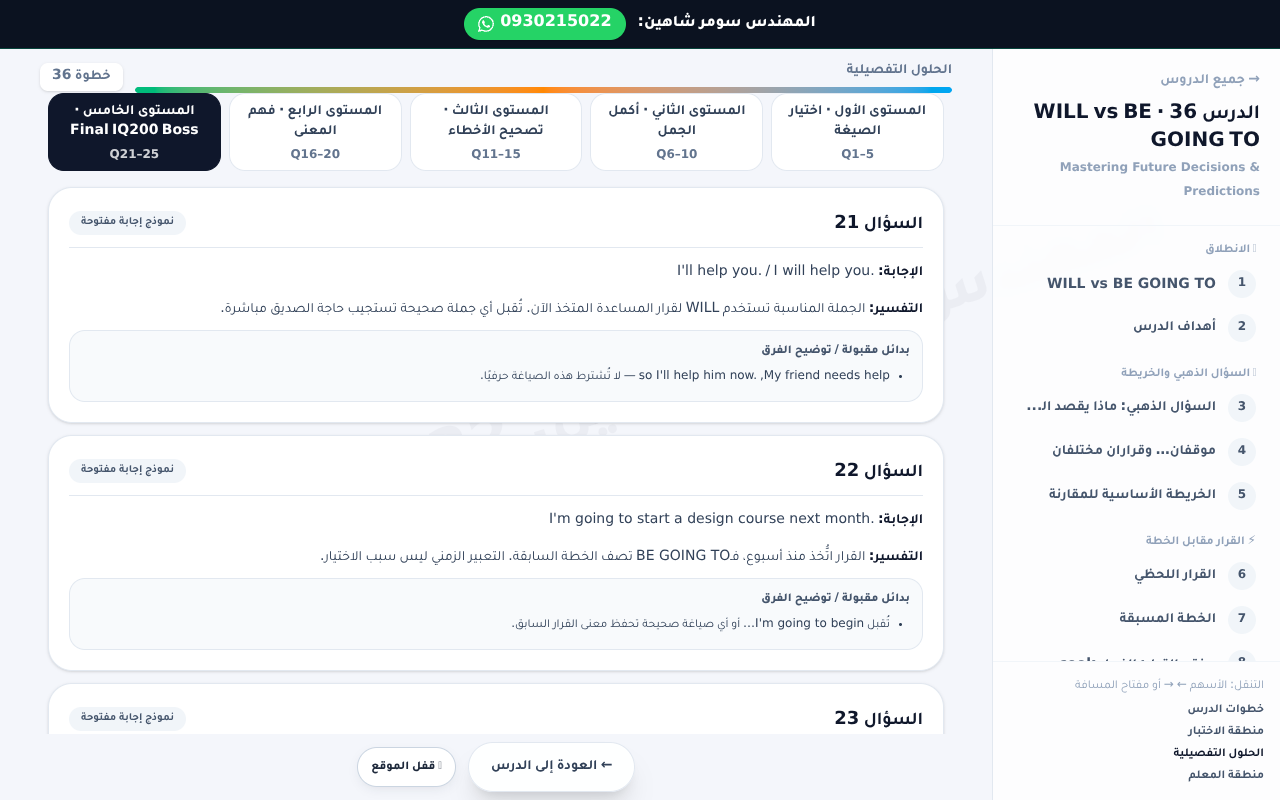
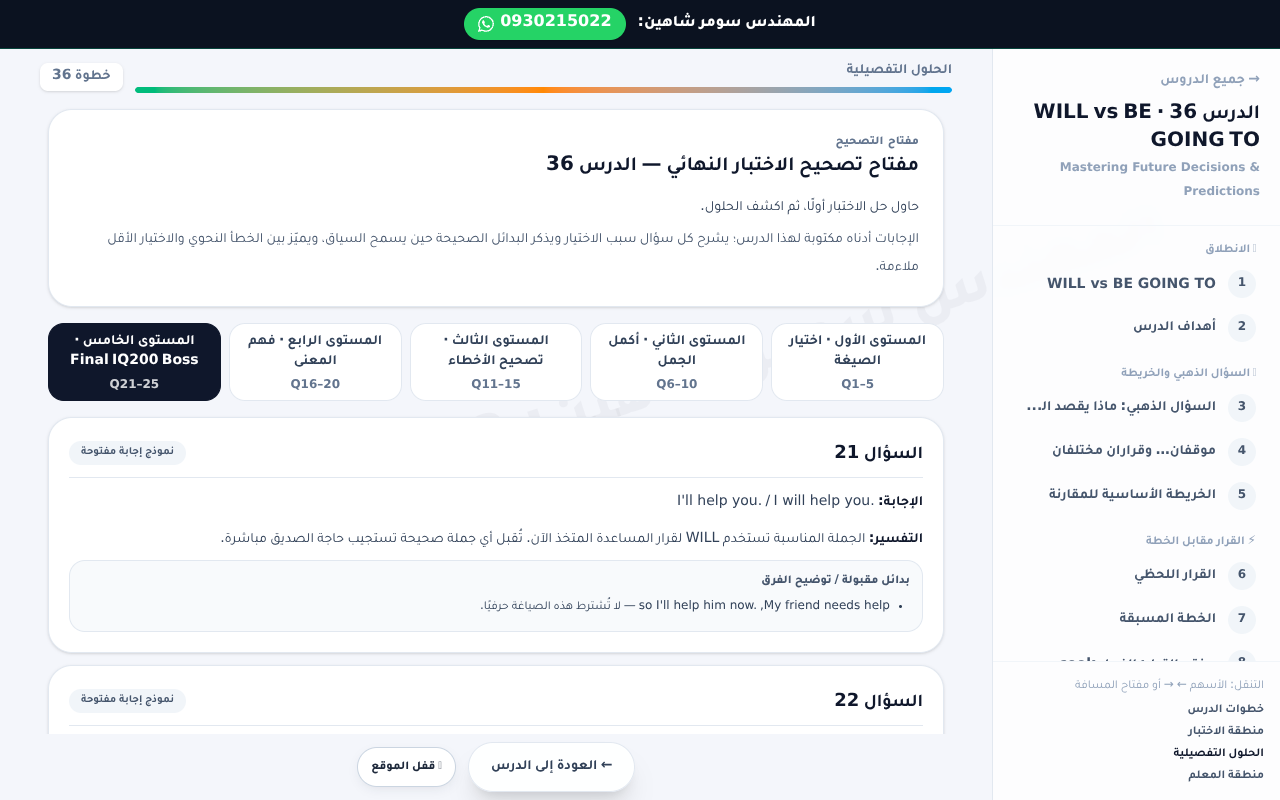
Lesson 36: keep the test submit control in the page flow
The sticky submit bar floated over the first question cards inside the
scrolling main region. It now sits at the end of the test; the header
tells the learner the button is there, and the browser audit asserts the
0/25 -> 25/25 progress plus the non-floating placement.

diff --git a/src/lessons/lesson36/TestArea36.tsx b/src/lessons/lesson36/TestArea36.tsx
@@ -107,7 +107,9 @@ export default function TestArea36({
           </span>
         </div>
         {!submitted ? (
-          <p className="mt-2 text-xs font-bold text-slate-500">لا يظهر أي تصحيح أو مفتاح إجابة قبل التسليم. يمكنك مراجعة إجاباتك والتنقل بين الأسئلة قبل الإرسال.</p>
+          <p className="mt-2 text-xs font-bold text-slate-500">
+            لا يظهر أي تصحيح أو مفتاح إجابة قبل التسليم. يمكنك مراجعة إجاباتك والتنقل بين الأسئلة قبل الإرسال؛ زر التسليم في نهاية الاختبار.
+          </p>
         ) : (
           <p className="mt-2 text-xs font-bold text-slate-500">تم التسليم؛ النتيجة والتصحيح ظاهران أدناه، والمفتاح التفصيلي في مساحة الحلول.</p>
         )}
@@ -171,7 +173,7 @@ export default function TestArea36({
       ))}
 
       {!submitted ? (
-        <div className="sticky bottom-20 z-10 rounded-2xl border border-slate-200 bg-white/95 p-3 shadow-lg backdrop-blur md:bottom-24">
+        <div className="rounded-2xl border border-slate-200 bg-white p-3 shadow-sm">
           <div className="space-y-2">
             <div className="flex flex-wrap items-center justify-between gap-2">
               <ActionButton36 onClick={submit} disabled={!ready || busy}>

diff --git a/docs/lesson36-rebuild-plan.md b/docs/lesson36-rebuild-plan.md
@@ -73,7 +73,7 @@ Screen readers: `fieldset`/`legend`, labelled inputs, `role="status"`/`aria-live
 | `npm run audit:lesson-navigation` | PASS — 176 checks, 0 failed |
 | `node scripts/audit-final-test.mjs` | 1,248 / 1,253; the same 5 Lesson 35 failures exist on `main` (see below) |
 | `node scripts/audit-final-test-coverage.mjs` | 630 / 633; the same 3 Lesson 35 failures exist on `main` |
-| `npm run audit:lesson36-browser` (new) | PASS — 87 / 87 across 1920×1080, 1280×800, 768×900, 375×812 |
+| `npm run audit:lesson36-browser` (new) | PASS — 88 / 88 across 1920×1080, 1280×800, 768×900, 375×812 |
 
 Note: `npm run audit:final-test` and `npm run audit:final-test-coverage` are not registered as npm scripts in this repository; the scripts were run directly. Their failures are byte-identical on a clean `main` worktree (`git worktree add /tmp/main-baseline main`), so they are baseline Lesson 35 failures, not regressions, and were not fixed here (out of scope).
 
@@ -90,7 +90,7 @@ Per viewport (1920×1080, 1280×800, 768×900, 375×812):
 - keyboard focus visibly ringed on an in-lesson control;
 - mobile drawer opens, navigates to a chosen step, and closes.
 
-Flow checks: locked solutions entry does not open the key; test renders 25 questions with submit blocked; answering all 25 still reveals nothing; submission shows the objective score and all 25 feedback panels; the key chunk is fetched only then; all 25 solutions are reachable through the five level tabs; the teacher password rejects a wrong value and reveals 25 keys + 27 coverage rows; RTL arrows move one step each way; one shared site-lock button; no console errors; no student-visible source labels.
+Flow checks: locked solutions entry does not open the key; the in-page test header reports `0/25` → `25/25`; the submit control lives at the end of the test (not floating over question cards); test renders 25 questions with submit blocked; answering all 25 still reveals nothing; submission shows the objective score and all 25 feedback panels; the key chunk is fetched only then; all 25 solutions are reachable through the five level tabs; the teacher password rejects a wrong value and reveals 25 keys + 27 coverage rows; RTL arrows move one step each way; one shared site-lock button; no console errors; no student-visible source labels.
 
 ## 9. Limitations
 
